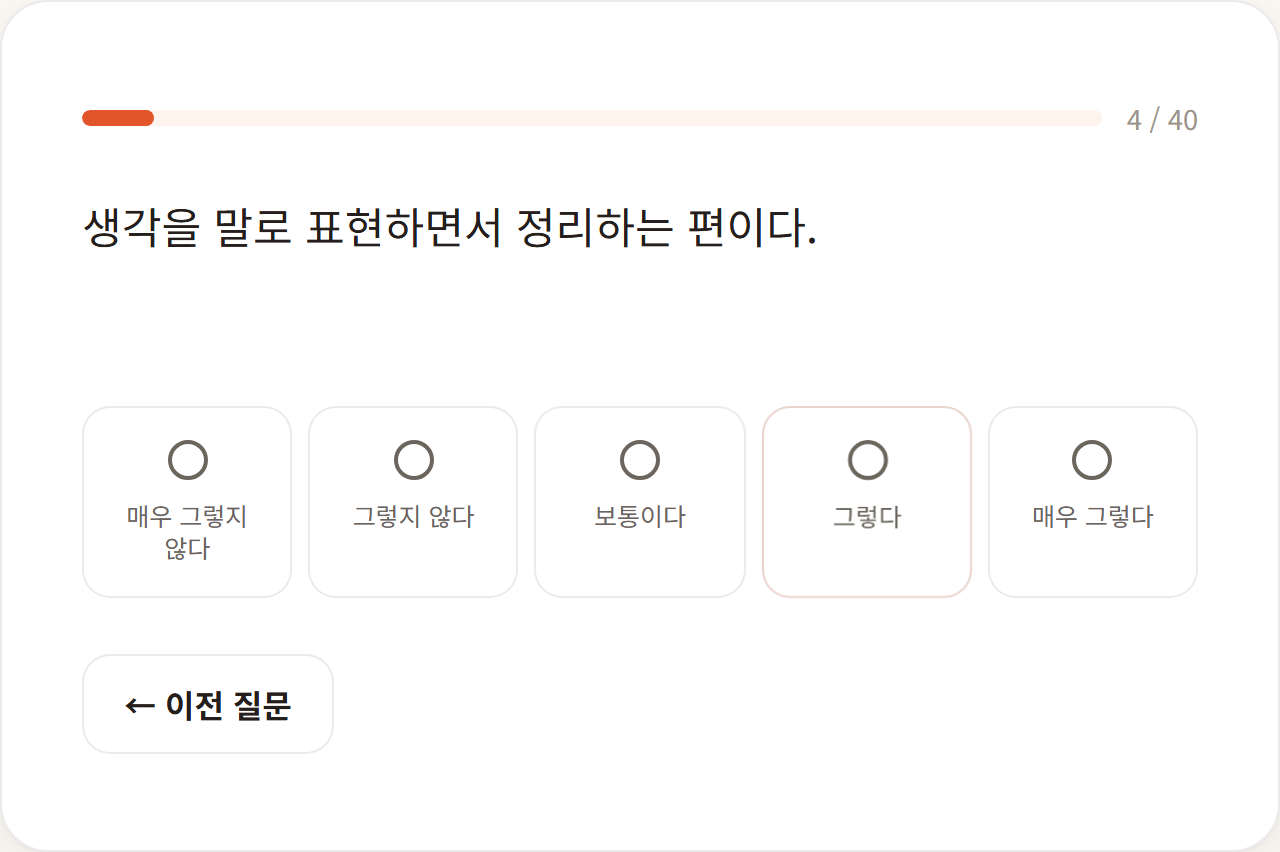
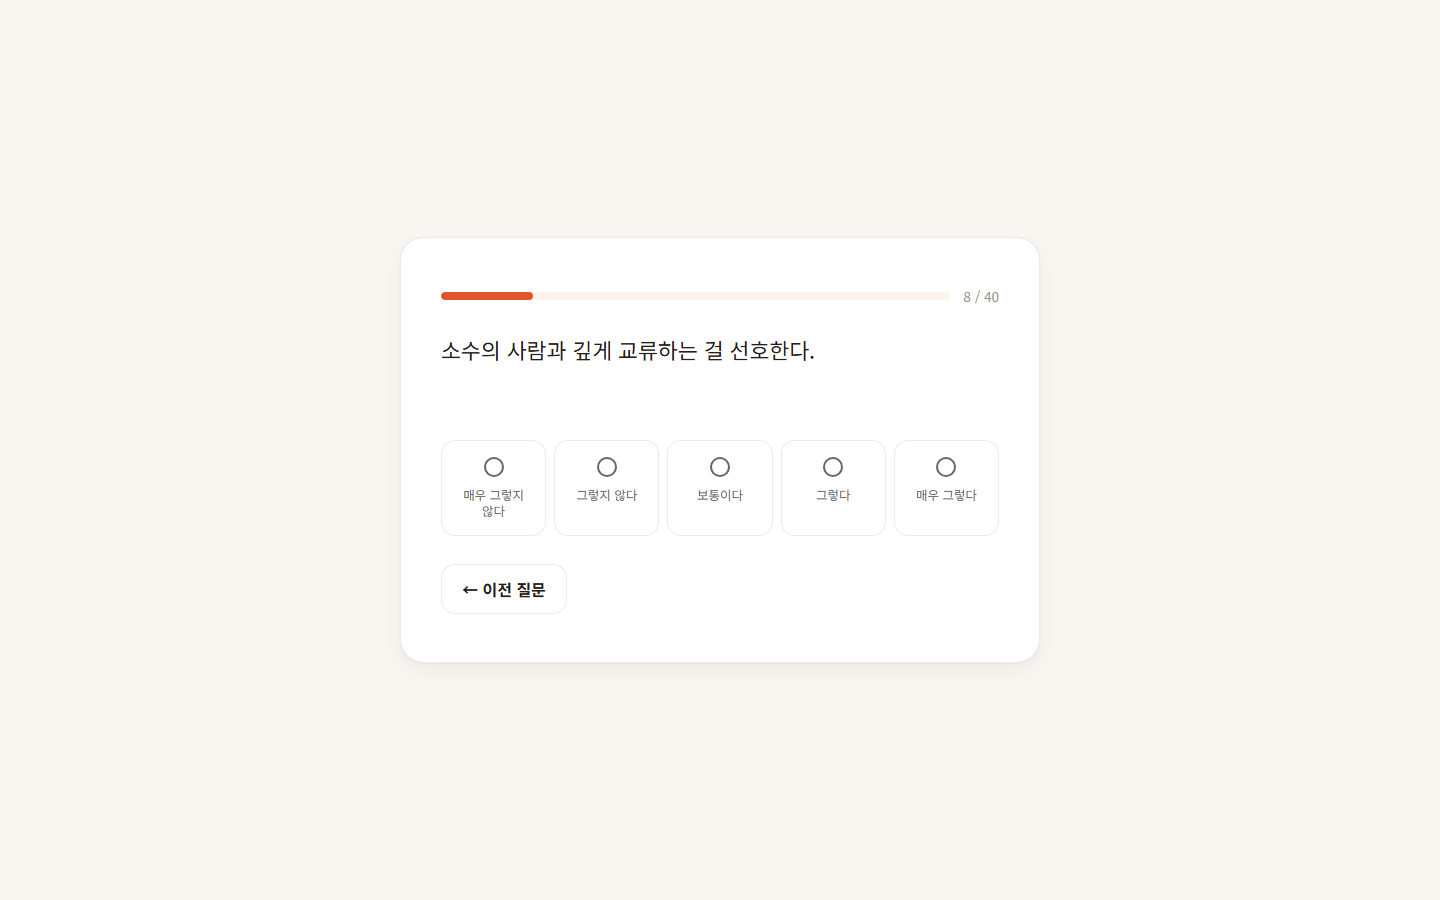
README 스크린샷을 화면 전체로 다시 찍고 모바일 3장을 한 줄로 배치
카드만 잘라 찍어서 둥근 모서리 바깥이 깨져 보이고, 질문·결과 사진 높이가 크게 달라
표가 들쭉날쭉했다. 데스크톱 1440x900, 모바일 390x844(2배)로 화면 전체를 다시 찍었다.

diff --git a/README.md b/README.md
@@ -28,9 +28,15 @@
 |---|---|
 | ![질문 화면](docs/screenshots/02-quiz.png) | ![결과 화면](docs/screenshots/03-result.png) |
 
-| 모바일 |
-|---|
-| ![모바일 화면](docs/screenshots/04-mobile.png) |
+**모바일**
+
+<table>
+  <tr>
+    <td><img src="docs/screenshots/04-mobile-home.png" width="240" alt="모바일 홈"></td>
+    <td><img src="docs/screenshots/05-mobile-quiz.png" width="240" alt="모바일 질문"></td>
+    <td><img src="docs/screenshots/06-mobile-result.png" width="240" alt="모바일 결과"></td>
+  </tr>
+</table>
 
 ## 동작 구조
 
